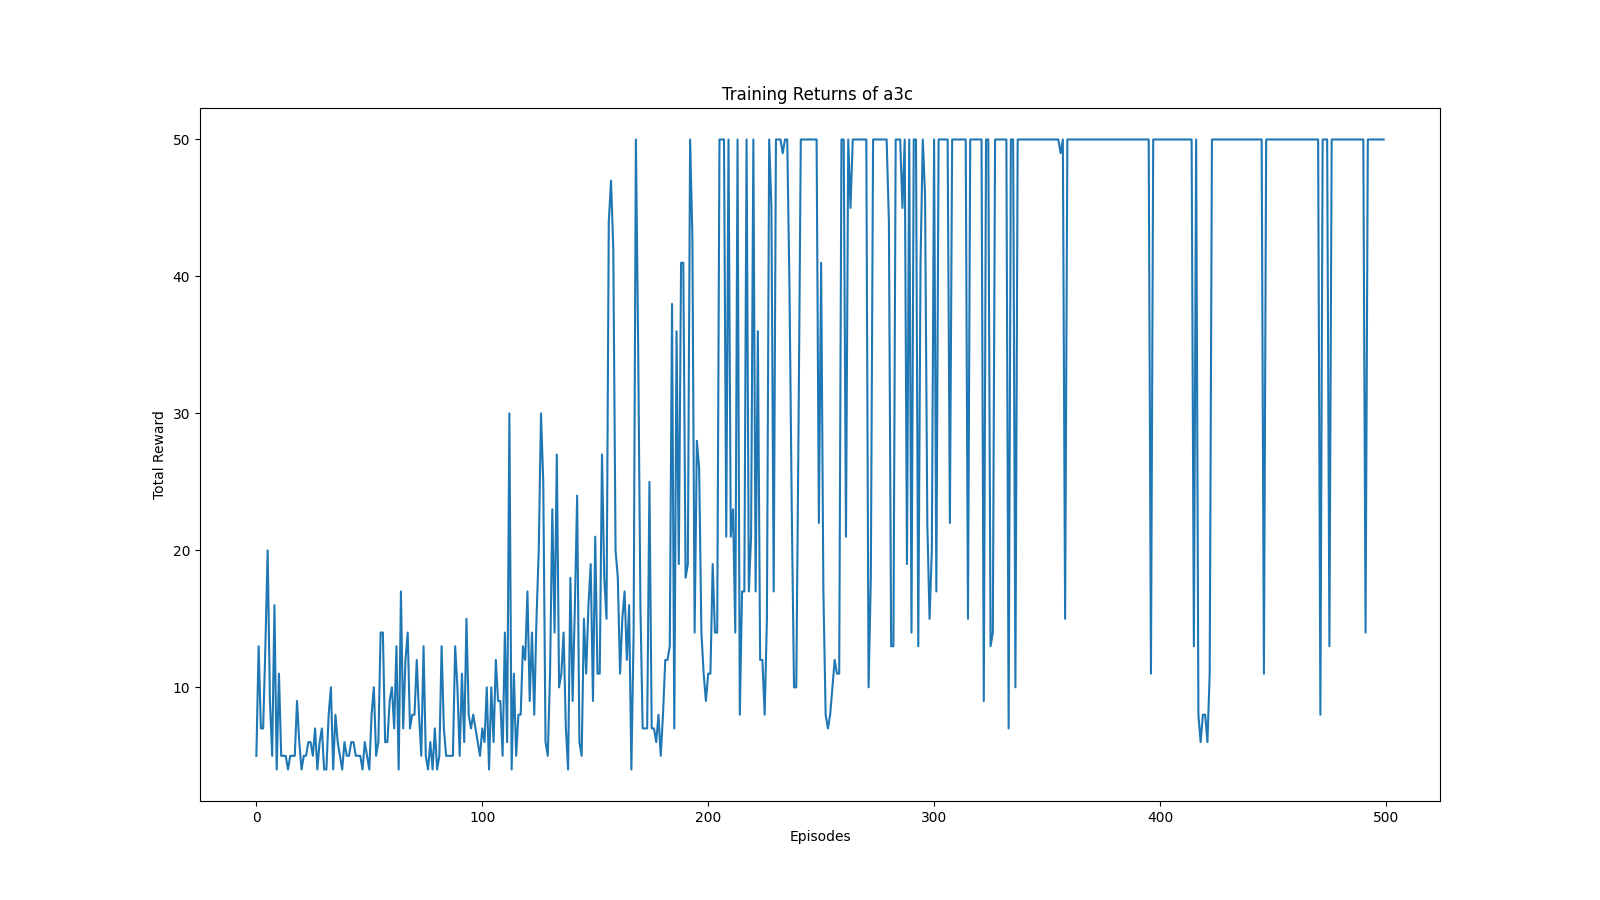
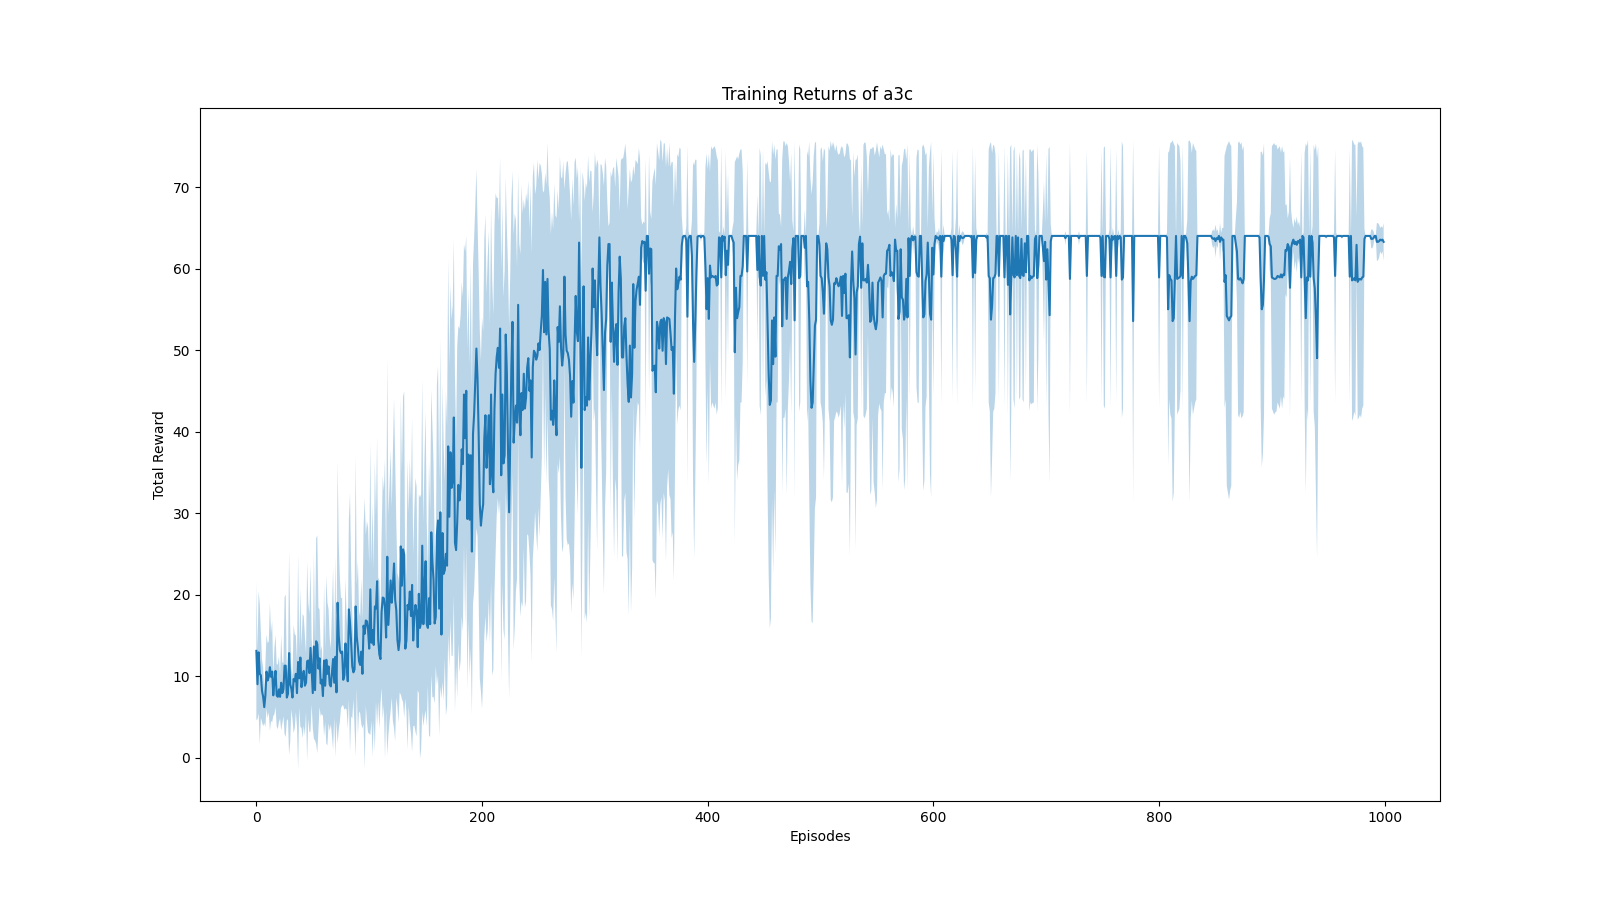
feat: update graph over 10 episode

diff --git a/run_agent_cartpole.py b/run_agent_cartpole.py
@@ -137,12 +137,13 @@ if __name__ == '__main__':
     env.render()
     state_dim = env.num_states
     action_dim = len(env.action_space)
-    agents = ["dqn", "ddqn", "dueling_ddqn", "multistep_dqn", 'prioritized_ddqn', 'distributional_dqn', 'noise_dqn', 'a3c', 'rainbow']
+    agents = ['distributional_dqn', 'noise_dqn', 'a3c', 'rainbow']
     for agent_name in agents:
         print(agent_name)
         args.agent = agent_name
         seeds_returns = {}
         for SEED in (range(40, 51)):
+            print(SEED)
             np.random.seed(SEED)
             if agent_name == "dqn":
                 agent = DQNAgent(state_dim=state_dim, action_dim=action_dim)
@@ -150,8 +151,6 @@ if __name__ == '__main__':
                 agent = DoubleDQNAgent(state_dim=state_dim, action_dim=action_dim)
             elif agent_name == "dueling_ddqn":
                 agent = DuelingDDQNAgent(state_dim=state_dim, action_dim=action_dim)
-            elif agent_name == "prioritized_ddqn":
-                agent = PrioritizedDoubleDQNAgent(state_dim=state_dim, action_dim=action_dim)
             elif agent_name == "distributional_dqn":
                 agent = DistributionalDQNAgent(state_dim=state_dim, action_dim=action_dim)
             elif agent_name == "noise_dqn":
@@ -165,7 +164,7 @@ if __name__ == '__main__':
 
             # Execute based on parameters
             if args.train:
-                steps, returns = train_agent(agent, num_episodes=500)
+                steps, returns = train_agent(agent, num_episodes=1000)
                 seeds_returns[SEED] = (steps, returns)
 
             if args.test:

diff --git a/arguments.py b/arguments.py
@@ -41,7 +41,7 @@ parser.add_argument("--animation-interval", type=float, default = 0.2)
 ## ==================== End of Advanced settings ====================
 
 
-parser.add_argument("--agent", type=str, choices=["dqn", "ddqn", "dueling_ddqn", "multistep_dqn", 'prioritized_ddqn', 'distributional_dqn', 'noise_dqn', 'a3c', 'rainbow'], default="distributional_dqn", help="Specify the agent type.")
+parser.add_argument("--agent", type=str, choices=["dqn", "ddqn", "dueling_ddqn", "multistep_dqn", 'prioritized_ddqn', 'distributional_dqn', 'noise_dqn', 'a3c', 'rainbow'], default="noise_dqn", help="Specify the agent type.")
 parser.add_argument("--train", type=bool, default=True)
 parser.add_argument("--test", type=bool, default=False)
 

diff --git a/envs/cart_pole.py b/envs/cart_pole.py
@@ -3,7 +3,7 @@ import gym
 
 class CartPoleEnv:
     def __init__(self):
-        self.env = gym.make('CartPole-v1', render_mode='rgb_array')
+        self.env = gym.make('CartPole-v1')
         self.action_space = [0, 1]
         self.num_states = 4
         self.state = self.env.reset()
